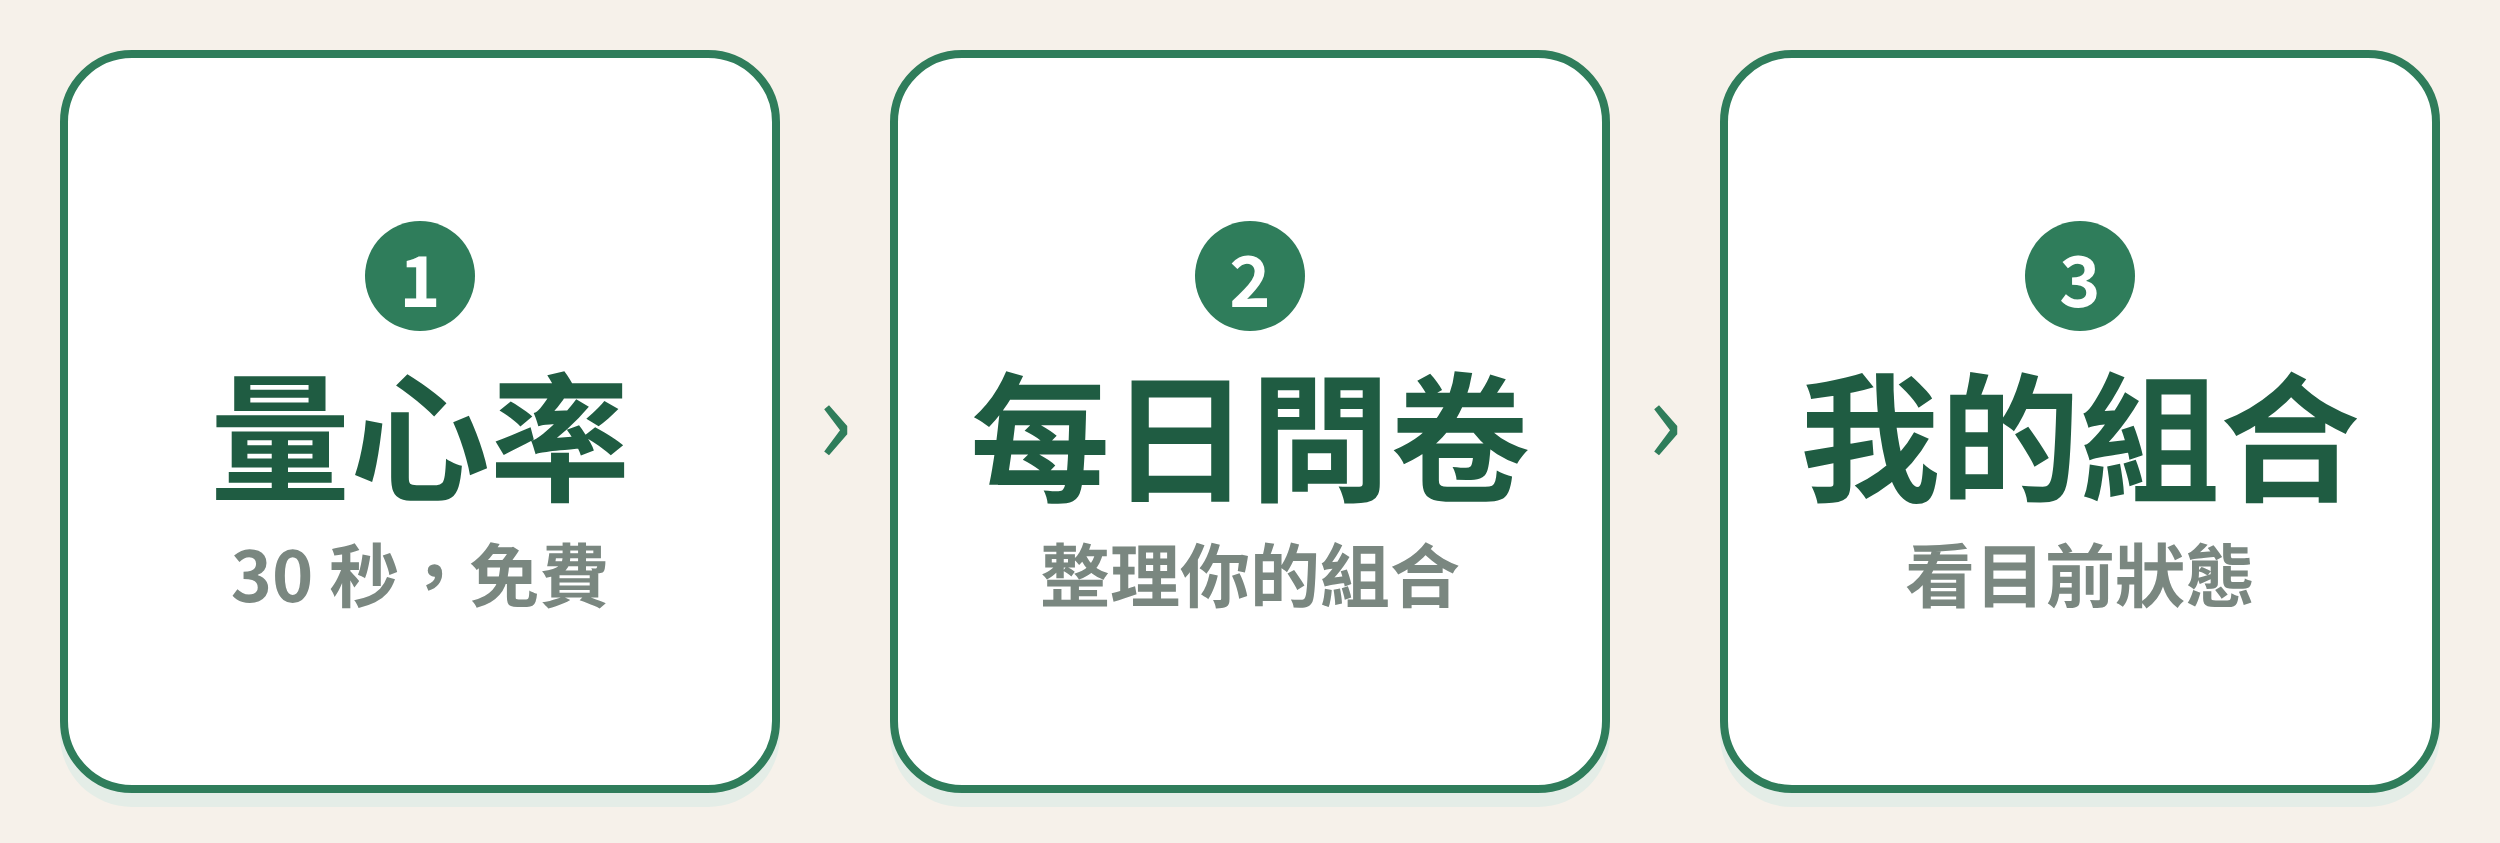
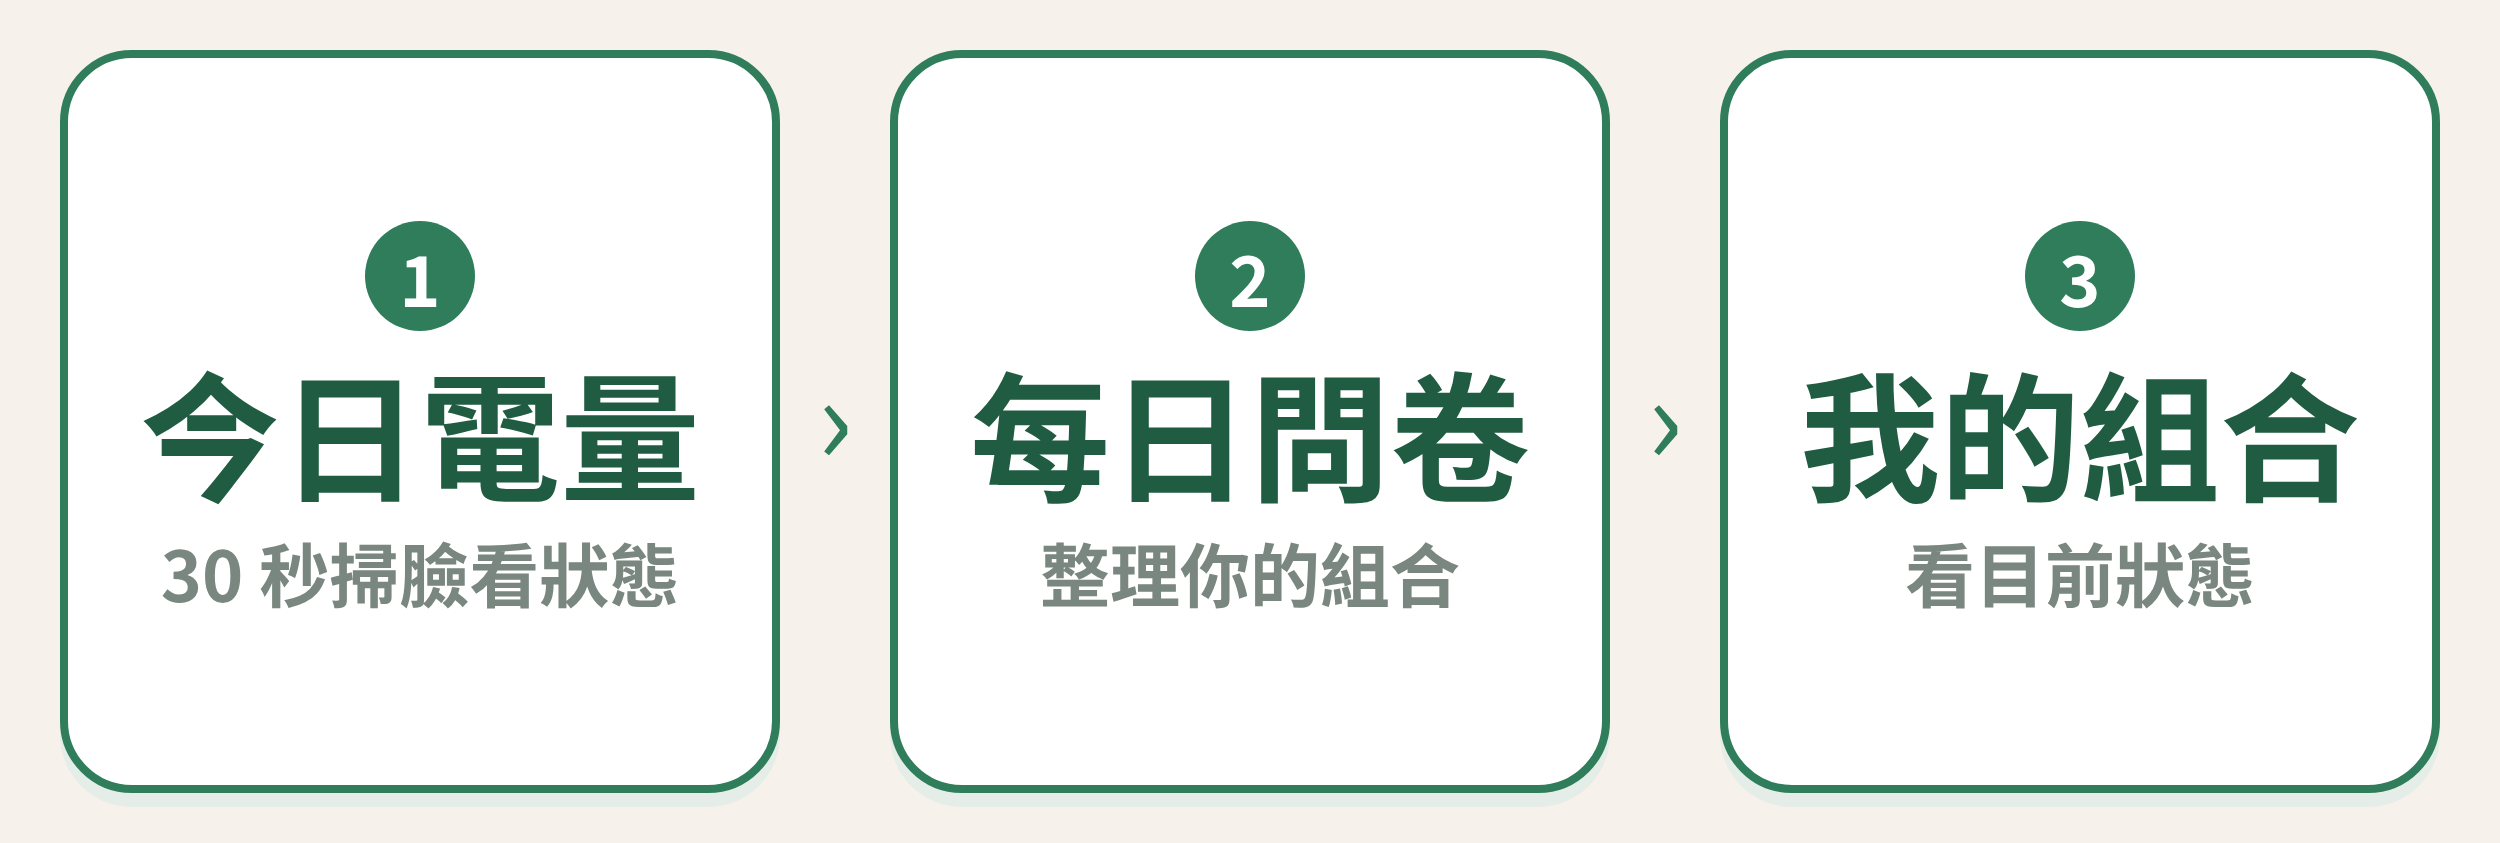
今日電量改名、對照手錶輸入（選填，存 watch_bpm 供驗證）
Claude-Session: https://claude.ai/code/session_01UspgBCkKGVVe1bFEQQRBEs

Changed region(s): [[0.0624, 0.4318, 0.2808, 0.6168], [0.0624, 0.6477, 0.2808, 0.7402]]

diff --git a/index.html b/index.html
@@ -3,7 +3,7 @@
 <head>
 <meta charset="utf-8">
 <meta name="viewport" content="width=device-width,initial-scale=1,viewport-fit=cover">
-<title>Deerly 量心率</title>
+<title>Deerly 今日電量</title>
 <style>
   :root{--bg:#faf8f5;--fg:#222;--mut:#777;--ac:#2f7d5b;--card:#fff}
   @media (prefers-color-scheme:dark){:root{--bg:#161616;--fg:#eee;--mut:#999;--ac:#5cc79a;--card:#222}}
@@ -31,7 +31,8 @@
   .hrbox{text-align:center;padding:8px 0}
   .hrnum{font-size:72px;font-weight:700;line-height:1;color:var(--ac)}
   .hrunit{font-size:16px;color:var(--mut)}
-  .cmp{font-size:17px;margin-top:8px}
+  .watchrow{display:flex;gap:8px}.watchrow input{flex:1;min-width:0;font-size:16px;padding:8px;border:1px solid #d9d2c5;border-radius:8px}.watchrow button{width:auto;padding:8px 16px}
+.cmp{font-size:17px;margin-top:8px}
   .bat{margin-top:14px;text-align:left}
   .batbar{height:14px;border-radius:7px;background:rgba(127,127,127,.25);overflow:hidden;margin:6px 0}
   .batbar div{height:100%;background:var(--ac);width:0;transition:width .8s}
@@ -49,7 +50,7 @@
 </style>
 </head>
 <body>
-<h1>量心率</h1>
+<h1>今日電量</h1>
 <p class="mut" id="intro">請在明亮、均勻的光線下，臉對著前鏡頭，手機放穩，30 秒內不要說話或大幅移動。</p>
 <div class="box"><video id="v" playsinline muted></video><canvas id="ov"></canvas><div id="ovtxt" hidden></div><div id="qc" hidden><span id="qf"></span><span id="ql"></span><span id="qm"></span></div></div>
 <button id="go">開始（會要求使用前鏡頭）</button>
@@ -65,7 +66,11 @@
     <div class="mut" style="margin-top:8px">昨晚睡得如何？（會微調電量）</div>
     <div class="chips" id="sleepChips"><button data-v="good">不錯</button><button data-v="ok">普通</button><button data-v="bad">不太好</button></div>
   </div>
-  <div class="mut" id="watchTip" style="margin-top:10px" hidden>想驗證準不準？量測時請戴著手錶，同時看手錶心率（這次是 30 秒平均，和手錶瞬間數字差幾下是正常的）。</div>
+  <div id="watchTip" style="margin-top:10px" hidden>
+    <div class="mut" style="margin-bottom:6px">電量是和你自己的平常比較；心率是這次 30 秒的平均。想知道準不準？可以對照手錶（選填，只用來驗證準確度）：</div>
+    <div class="watchrow"><input id="watchIn" type="number" inputmode="numeric" min="30" max="220" placeholder="手錶顯示幾下？"> <button id="watchBtn">對照</button></div>
+    <div class="mut" id="watchRes" style="margin-top:6px"></div>
+  </div>
 </div>
 <div class="card" id="relax" hidden>
   <b>一分鐘放鬆挑戰</b>
@@ -280,7 +285,7 @@ function batteryOf(bpm, base) { return Math.max(5, Math.min(100, Math.round(70 -
 function renderCompare(r) {
   $('cmp').textContent = ''; $('bat').hidden = true;
   if (r.quality < QMIN) return;
-  $('watchTip').hidden = false;
+  $('watchTip').hidden = false; $('watchRes').textContent = ''; $('watchIn').value = '';
   if (curBase === null) { $('cmp').textContent = '再量幾次（累積 3 次），就能比較你的平常心率，並解鎖「今日電量」。'; return; }
   const d = Math.round(r.bpm - curBase);
   $('cmp').textContent = d === 0 ? '和你平常差不多（平常約 ' + Math.round(curBase) + '）' : '比你平常' + (d > 0 ? '高' : '低') + ' ' + Math.abs(d) + ' 下（平常約 ' + Math.round(curBase) + '）';
@@ -413,6 +418,16 @@ async function api(action, extra = {}) {
   return { status: res.status, body };
 }
 
+$('watchBtn').onclick = async () => {
+  const w = Math.round(Number($('watchIn').value));
+  if (!lastResult || !(w >= 30 && w <= 220)) { $('watchRes').textContent = '請輸入 30–220 之間的數字'; return; }
+  const d = Math.round(lastResult.bpm) - w, ad = Math.abs(d);
+  $('watchRes').textContent = '手錶 ' + w + '，我們 ' + Math.round(lastResult.bpm) + '，' + (ad === 0 ? '一樣' : '差 ' + ad + ' 下') + '。手錶是瞬間值、我們是 30 秒平均，小差距很正常。';
+  if (cloud.on && cloud.consented && !relaxMode) {
+    const r = await api('watch', { watchBpm: w });
+    $('watchRes').textContent += r.status === 200 ? '已匿名記錄，幫我們驗證準確度，謝謝。' : '（這次沒能記錄）';
+  }
+};
 const median = a => { const s = [...a].sort((x, y) => x - y), m = s.length >> 1; return s.length ? (s.length % 2 ? s[m] : (s[m - 1] + s[m]) / 2) : null; };
 
 function renderHist(scans) {

diff --git a/backend/linebot/handler.ts b/backend/linebot/handler.ts
@@ -230,7 +230,7 @@ async function showPack(sub: string, replyToken: string) {
   return reply(replyToken, [{ type: "text", text: "你的組合整理中，確認後會在這裡通知你。" }]);
 }
 
-// 量心率完成後，使用者端會自動送出「我量好了」，這裡回覆最新一次的結果
+// 掃臉完成後，使用者端會自動送出「我量好了」，這裡回覆最新一次的結果
 async function onScanDone(sub: string, replyToken: string) {
   const uid = await findUser(sub, false);
   const rows = uid
@@ -240,7 +240,7 @@ async function onScanDone(sub: string, replyToken: string) {
   const last = rows?.data?.[0];
   const again = quick([{ label: "再量一次", uri: LIFF_URL }]);
   if (!last || Date.now() - new Date(last.scanned_at).getTime() > 15 * 60e3) {
-    return reply(replyToken, [{ type: "text", text: "還沒看到新的量測結果，請點下方選單的「量心率」。", quickReply: again }]);
+    return reply(replyToken, [{ type: "text", text: "還沒看到新的量測結果，請點下方選單的「今日電量」。", quickReply: again }]);
   }
   if (last.quality < 0.35) return reply(replyToken, [{ type: "text", text: "這次訊號不太穩，請在光線充足的地方再量一次。", quickReply: again }]);
   const base = (rows!.data as { bpm: number; quality: number; scanned_at: string }[]).slice(1)
@@ -373,7 +373,7 @@ async function setupMenus() {
   return done;
 }
 
-// 主選單（預設選單）：量心率、每日問卷、我的組合。沒有在作答的人都看這個
+// 主選單（預設選單）：今日電量、每日問卷、我的組合。沒有在作答的人都看這個
 async function setupHome(a: { key: string; x: number; y: number; w: number; h: number }[]) {
   if (!a) throw new Error("缺少主選單的圖");
   const act = (k: string) => k === "scan"

diff --git a/backend/linebot/index.ts b/backend/linebot/index.ts
@@ -459,7 +459,7 @@ async function showPack(sub: string, replyToken: string) {
   return reply(replyToken, [{ type: "text", text: "你的組合整理中，確認後會在這裡通知你。" }]);
 }
 
-// 量心率完成後，使用者端會自動送出「我量好了」，這裡回覆最新一次的結果
+// 掃臉完成後，使用者端會自動送出「我量好了」，這裡回覆最新一次的結果
 async function onScanDone(sub: string, replyToken: string) {
   const uid = await findUser(sub, false);
   const rows = uid
@@ -469,7 +469,7 @@ async function onScanDone(sub: string, replyToken: string) {
   const last = rows?.data?.[0];
   const again = quick([{ label: "再量一次", uri: LIFF_URL }]);
   if (!last || Date.now() - new Date(last.scanned_at).getTime() > 15 * 60e3) {
-    return reply(replyToken, [{ type: "text", text: "還沒看到新的量測結果，請點下方選單的「量心率」。", quickReply: again }]);
+    return reply(replyToken, [{ type: "text", text: "還沒看到新的量測結果，請點下方選單的「今日電量」。", quickReply: again }]);
   }
   if (last.quality < 0.35) return reply(replyToken, [{ type: "text", text: "這次訊號不太穩，請在光線充足的地方再量一次。", quickReply: again }]);
   const base = (rows!.data as { bpm: number; quality: number; scanned_at: string }[]).slice(1)
@@ -602,7 +602,7 @@ async function setupMenus() {
   return done;
 }
 
-// 主選單（預設選單）：量心率、每日問卷、我的組合。沒有在作答的人都看這個
+// 主選單（預設選單）：今日電量、每日問卷、我的組合。沒有在作答的人都看這個
 async function setupHome(a: { key: string; x: number; y: number; w: number; h: number }[]) {
   if (!a) throw new Error("缺少主選單的圖");
   const act = (k: string) => k === "scan"

diff --git a/backend/scan-function.ts b/backend/scan-function.ts
@@ -92,6 +92,21 @@ Deno.serve(async (req) => {
       return reply({ ok: true });
     }
 
+    if (b.action === "watch") {
+      // 手錶數字（選填）：只更新 30 分鐘內最新的一筆量測，供驗證準確度
+      const w = Math.round(Number(b.watchBpm));
+      if (!(w >= 30 && w <= 220)) return reply({ error: "range" }, 400);
+      const last = await db.from("scans").select("id,scanned_at").eq("user_id", uid)
+        .order("scanned_at", { ascending: false }).limit(1);
+      if (last.error) throw last.error;
+      if (!last.data?.length || Date.now() - new Date(last.data[0].scanned_at).getTime() > 30 * 60_000) {
+        return reply({ error: "stale" }, 409);
+      }
+      const up = await db.from("scans").update({ watch_bpm: w }).eq("id", last.data[0].id);
+      if (up.error) throw up.error;
+      return reply({ ok: true });
+    }
+
     if (b.action === "list") {
       const r = await db.from("scans").select("scanned_at,bpm,quality")
         .eq("user_id", uid).order("scanned_at", { ascending: false }).limit(100);
